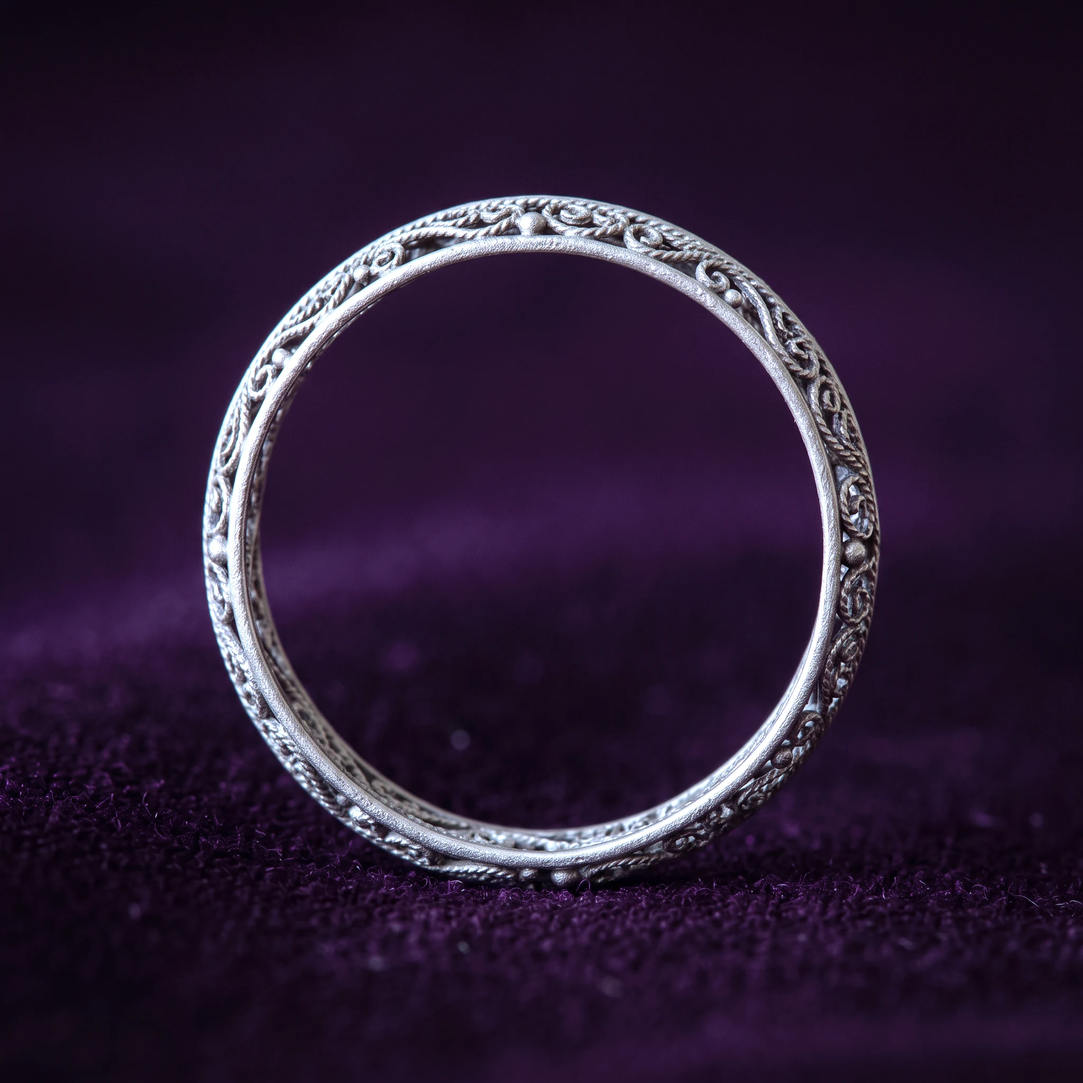
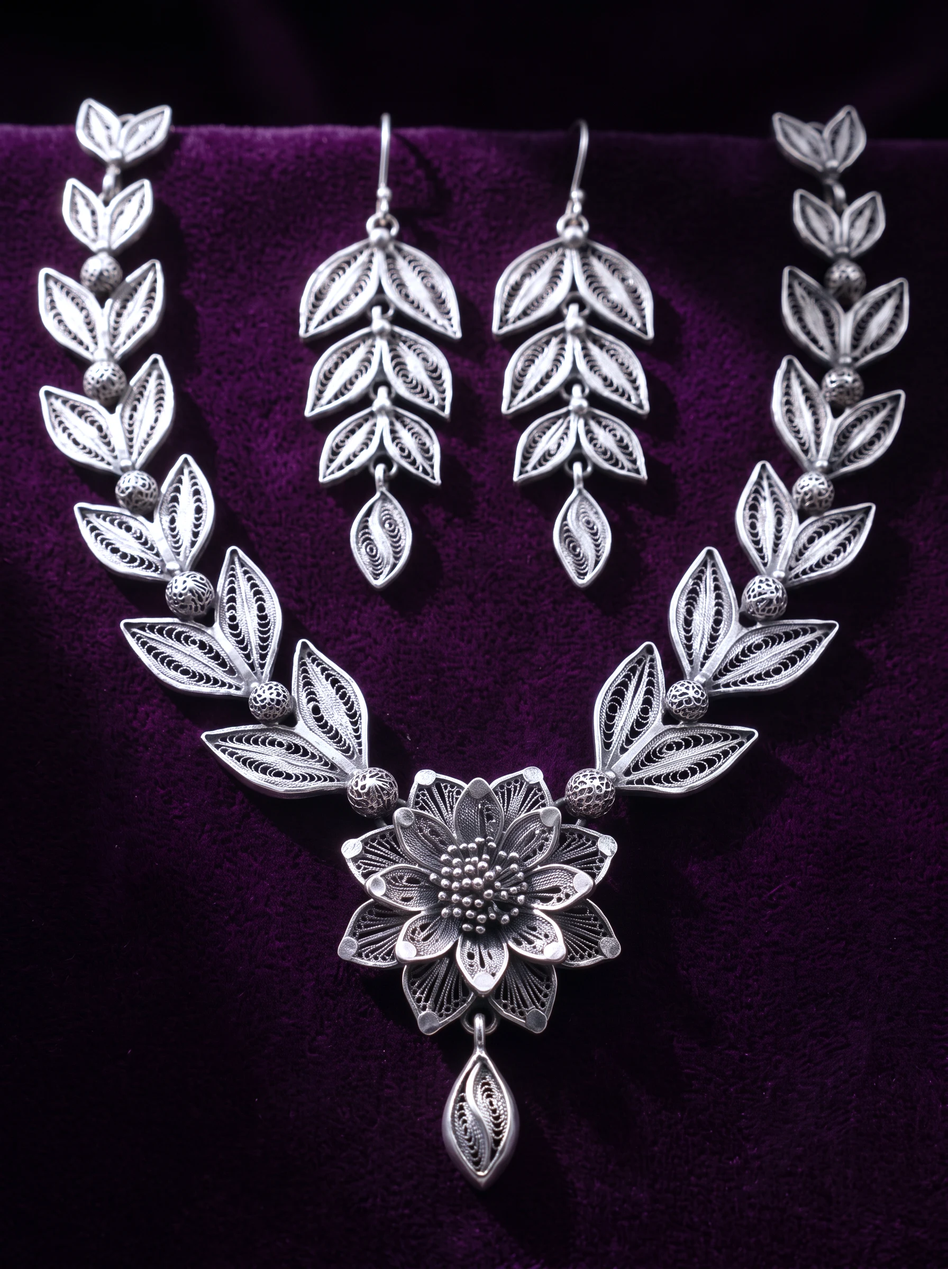
Use necklace-and-earrings set for Jewellery, revert animals/birds/flowers to original

diff --git a/frontend/src/sections/Objects.jsx b/frontend/src/sections/Objects.jsx
@@ -4,8 +4,8 @@ import { OBJECT_CATS, RECURRING_SUBJECTS } from '../content';
 const RATIOS = ['aspect-[3/4]', 'aspect-[4/3]', 'aspect-square', 'aspect-[3/4]', 'aspect-[16/10]', 'aspect-[4/5]'];
 
 // Real delivered pixel dimensions per recurring-subject image, so tiles are sized to fit
-// (not cropped/stretched to an arbitrary grid cell): 1792x2400, 1472x1472, 1984x2144, 2880x1472, 1280x1024, 1536x2752.
-const RECURRING_RATIOS = ['aspect-[112/150]', 'aspect-square', 'aspect-[62/67]', 'aspect-[45/23]', 'aspect-[5/4]', 'aspect-[24/43]'];
+// (not cropped/stretched to an arbitrary grid cell): 2848x1504, 1472x1472, 1984x2144, 2880x1472, 1280x1024, 1536x2752.
+const RECURRING_RATIOS = ['aspect-[89/47]', 'aspect-square', 'aspect-[62/67]', 'aspect-[45/23]', 'aspect-[5/4]', 'aspect-[24/43]'];
 const OBJECT_IMAGES = [
   '/images/objects-jewellery.webp',
   '/images/objects-ornaments.webp',

diff --git a/frontend/src/content.js b/frontend/src/content.js
@@ -96,7 +96,7 @@ export const MEDHA = [
 ];
 
 export const RECURRING_SUBJECTS = [
-  { name: 'Animals, birds & flowers', note: 'The most common vocabulary, running vine and wing worked into everyday jewellery.', w: 1792, h: 2400 },
+  { name: 'Animals, birds & flowers', note: 'The most common vocabulary, running vine and wing worked into everyday jewellery.', w: 1900, h: 1000 },
   { name: 'Konark Chakra', note: 'The stone wheel of the Sun Temple, rendered in miniature wire.', w: 1472, h: 1472 },
   { name: "Arjuna's chariot", note: 'Arjuna and Krishna as told in the Gita, worked as a display piece.', w: 1984, h: 2144 },
   { name: 'Sri Jagannath, Maa Subhadra & Sri Balabhadra', note: "Odisha's presiding deities, in idol and pendant form.", w: 1600, h: 830 },
